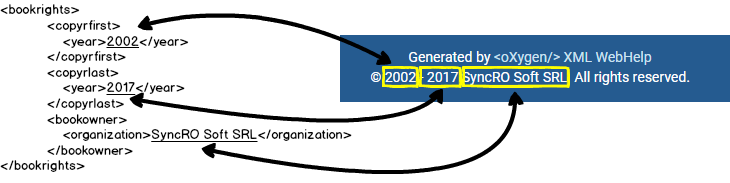
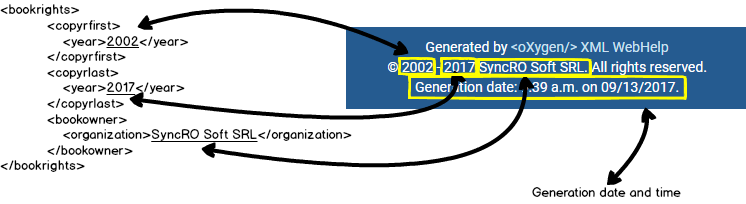
Update customization picture.

diff --git a/README.md b/README.md
@@ -2,7 +2,7 @@
 
 Sample WebHelp Responsive Customization plugin showing how you can transfer meta information specified in the DITA map to the WebHelp Responsive footer.
 
-In this sample, the footer of the WebHelp Responsive output is modified by adding copyright information extracted from the DITA bookmap or by adding the output generation time. The first use-case uses an XSLT-Import extension point while the second uses an XSLT-Parameter extension point.
+In this sample, the footer of the WebHelp Responsive output is modified by adding copyright information extracted from the DITA bookmap or by adding the output generation time.
 
 ![Custom footer](https://github.com/radu-pisoi/com.oxygenxml.webhelp.responsive.custom.footer/blob/master/resources/doc/img/WH-XSLT-customization.png)
 
